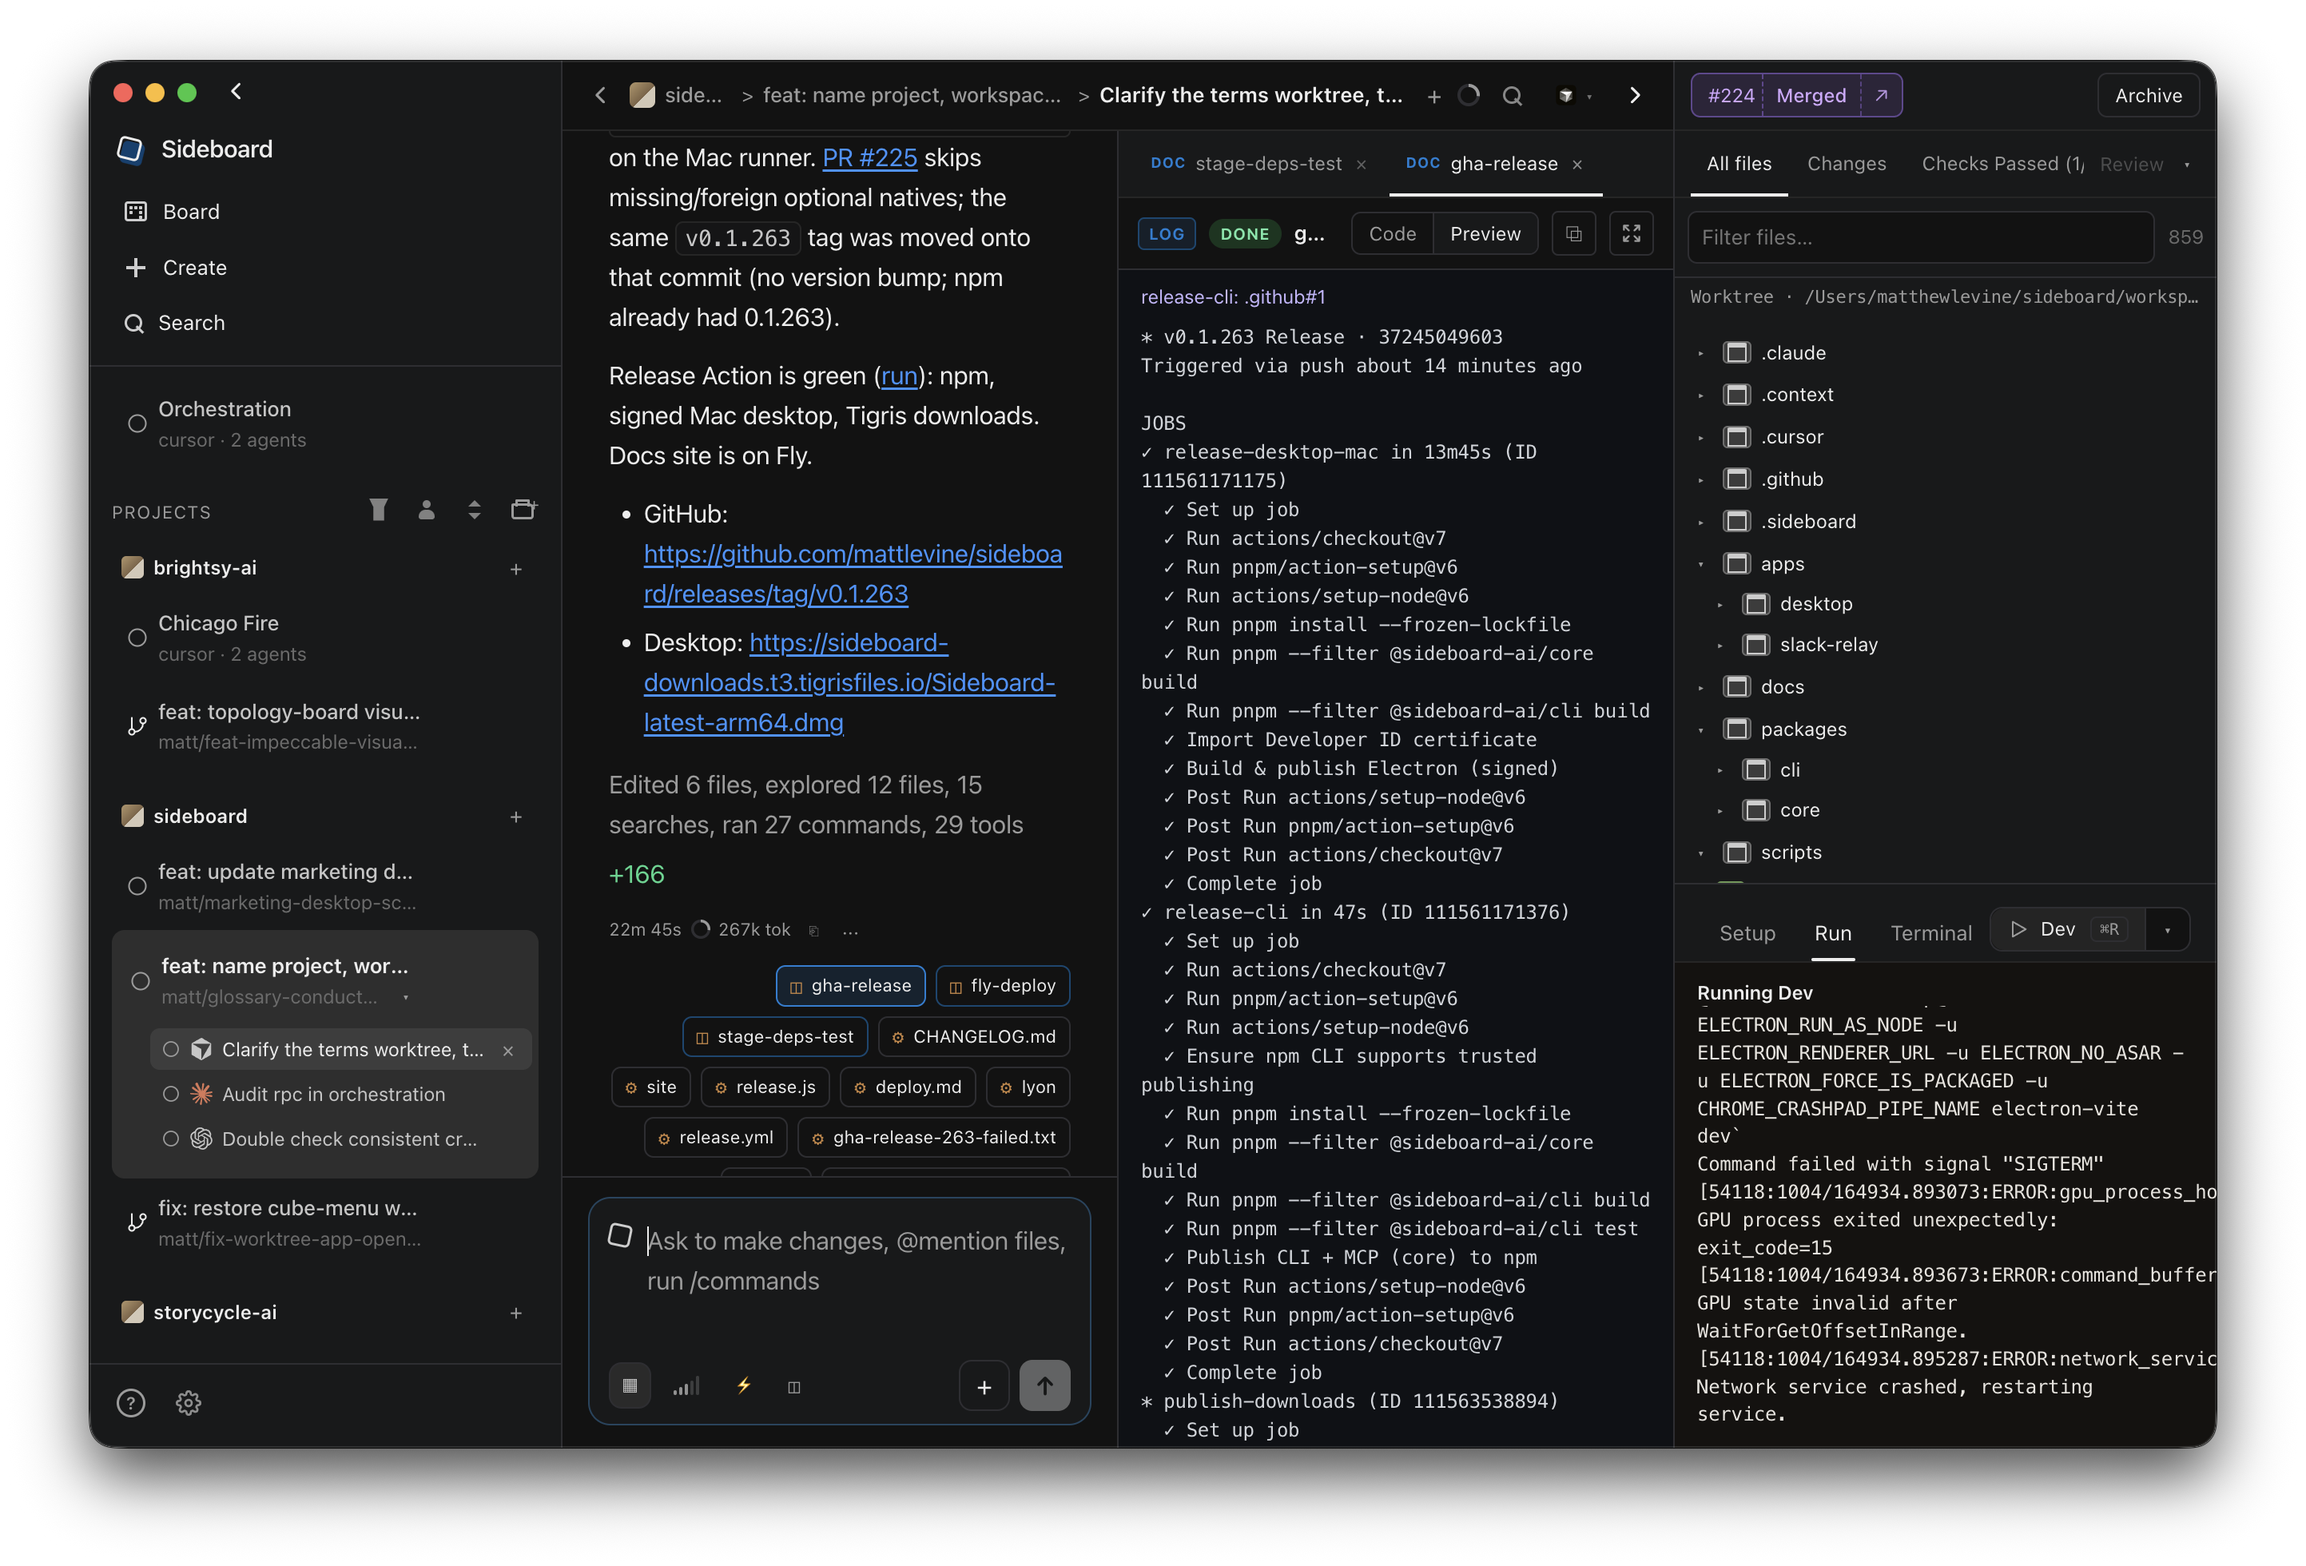
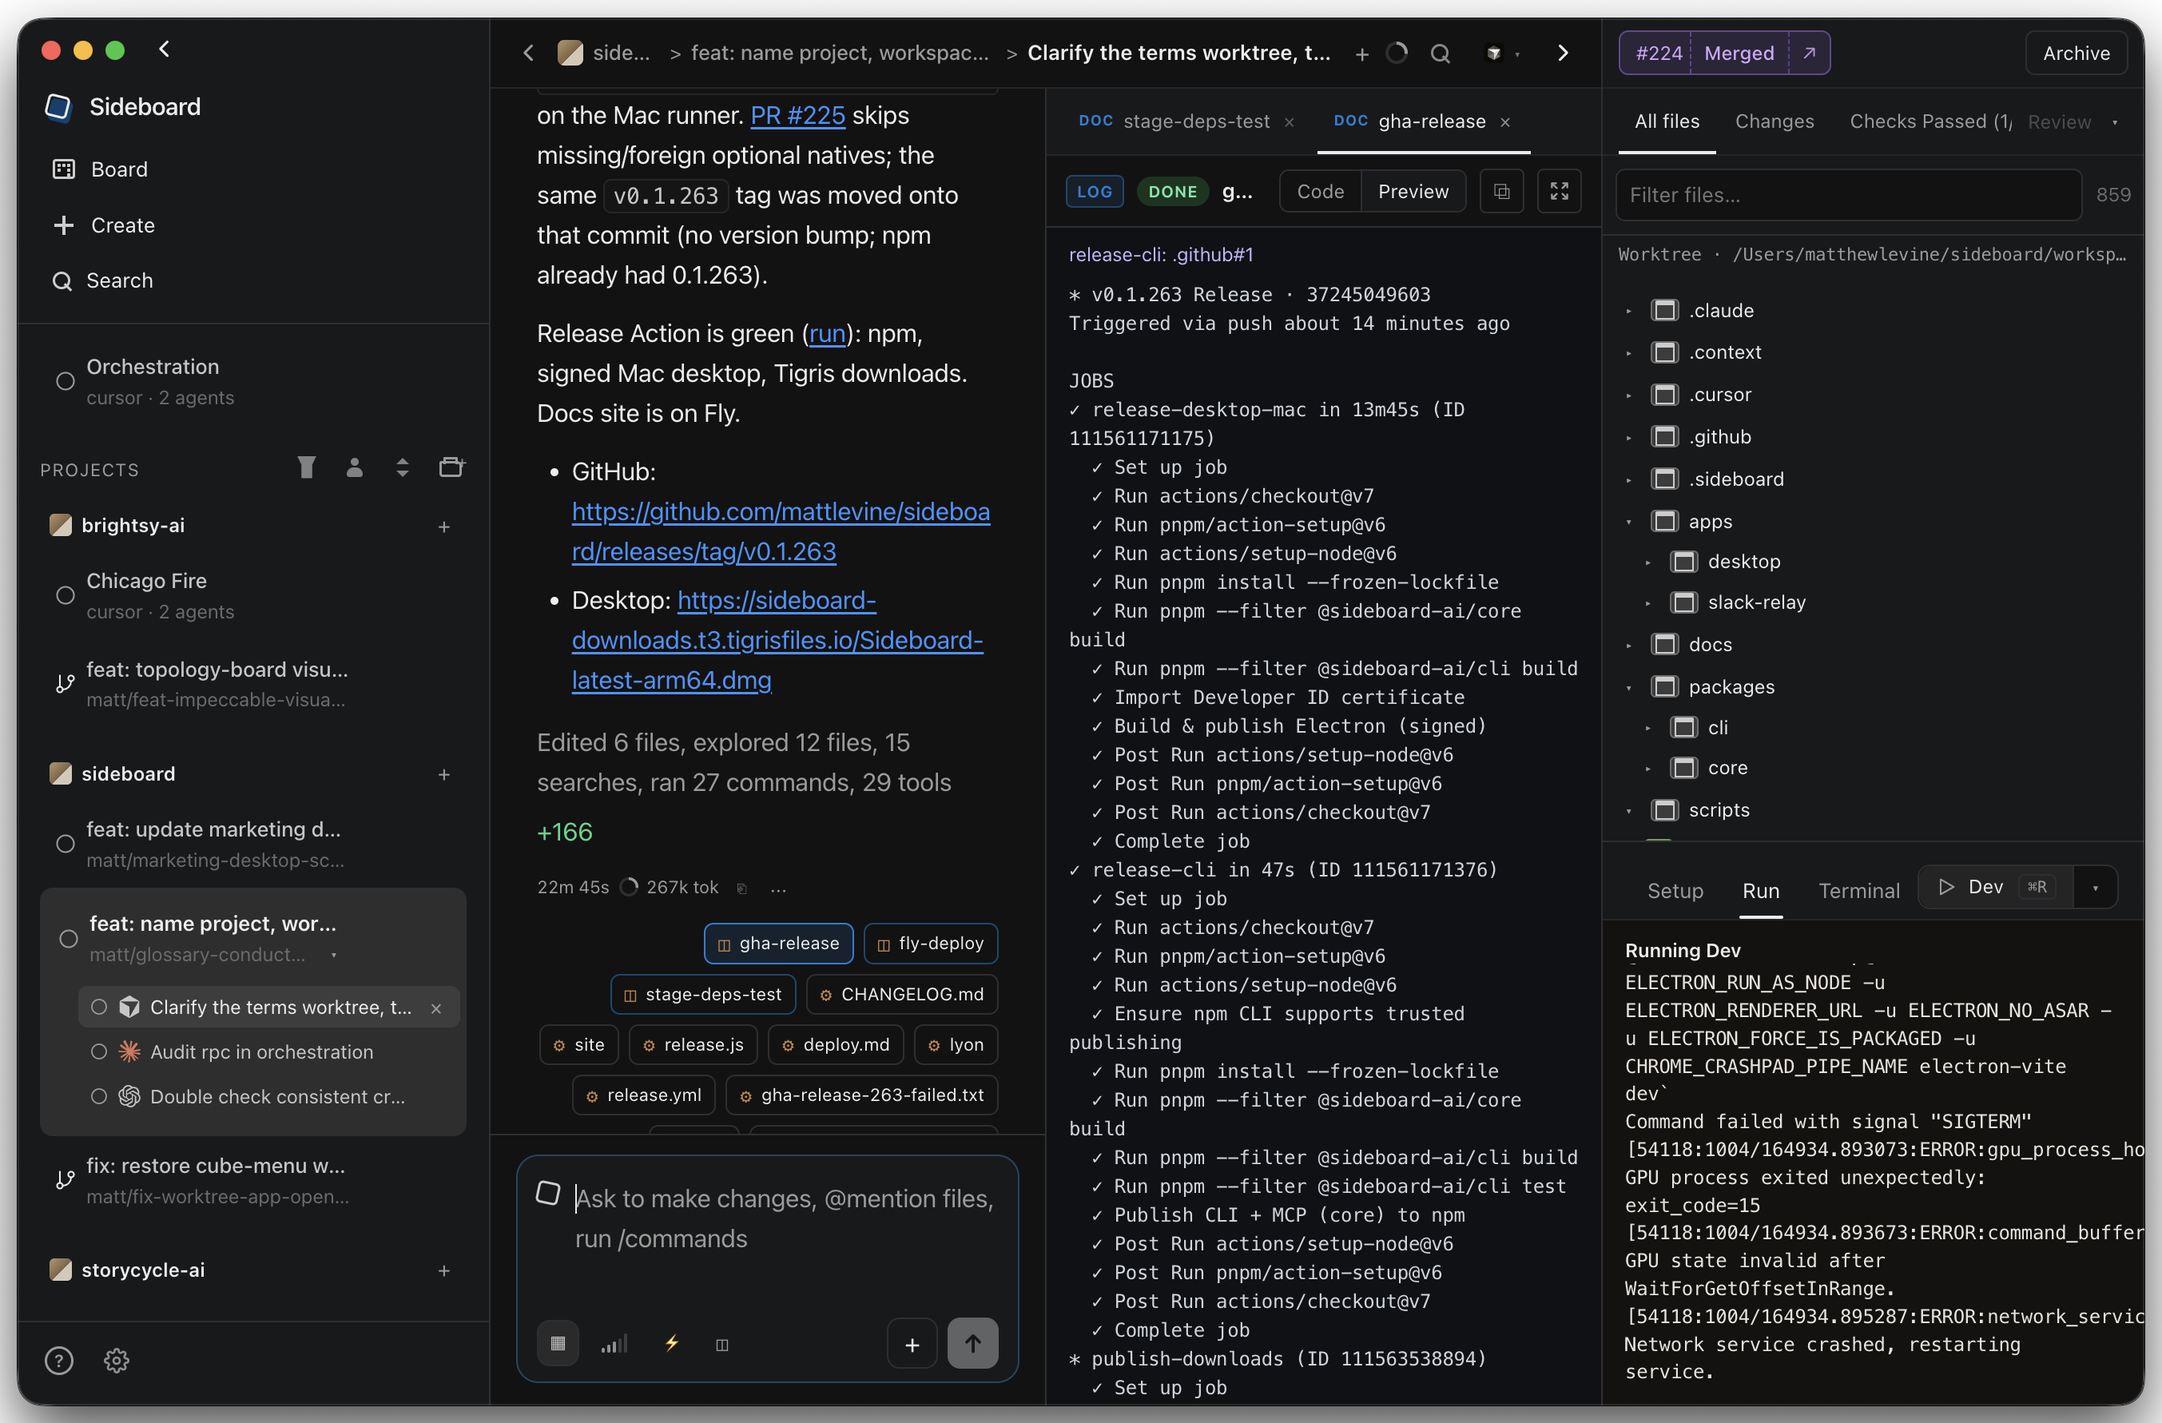
feat: trim desktop screenshot margins so it fills the chrome frame
The desktop.png had ~4% transparent/shadow margins baked in, leaving the app window small inside the frame. Crop to the window content (keeping a hint of shadow), update img dimensions (2706x1781), and version the image URL to bust the browser cache.

Changed region(s): [[0.0, 0.0, 1.0, 1.0], [0.8692, 0.5867, 0.9002, 0.6176]]

diff --git a/site/index.html b/site/index.html
@@ -48,7 +48,7 @@
 
 <figure class="shot">
   <div class="shot-frame">
-    <img src="desktop.png" width="2886" height="1960" alt="Sideboard desktop — the worktree chat with the agent thread, structure column, and the git repo on the far right">
+    <img src="desktop.png?v=2" width="2706" height="1781" alt="Sideboard desktop — the worktree chat with the agent thread, structure column, and the git repo on the far right">
   </div>
   <figcaption class="shot-cap">One worktree chat: the agent thread in the middle, artifacts and schema tabs beside it, the git repo on the far right.</figcaption>
 </figure>
